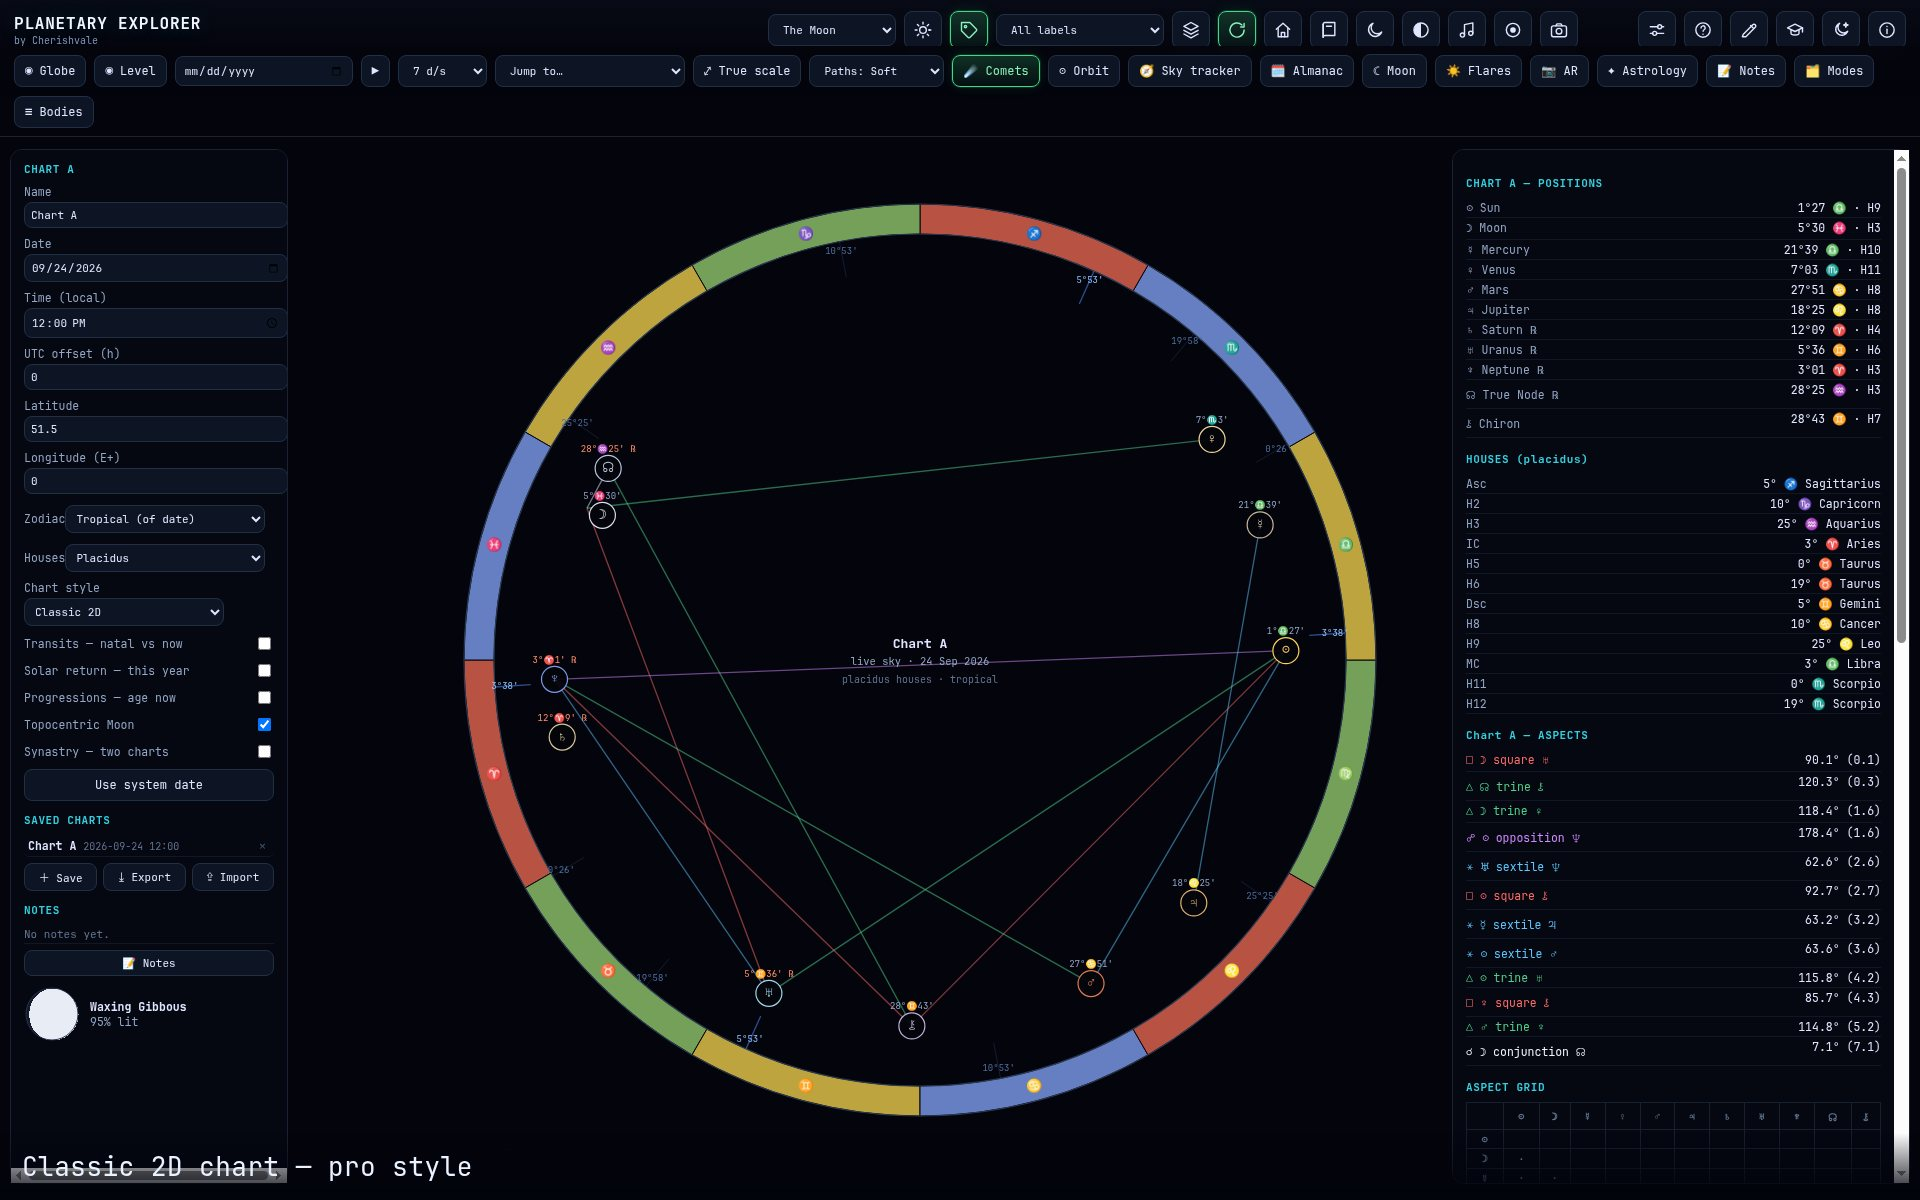
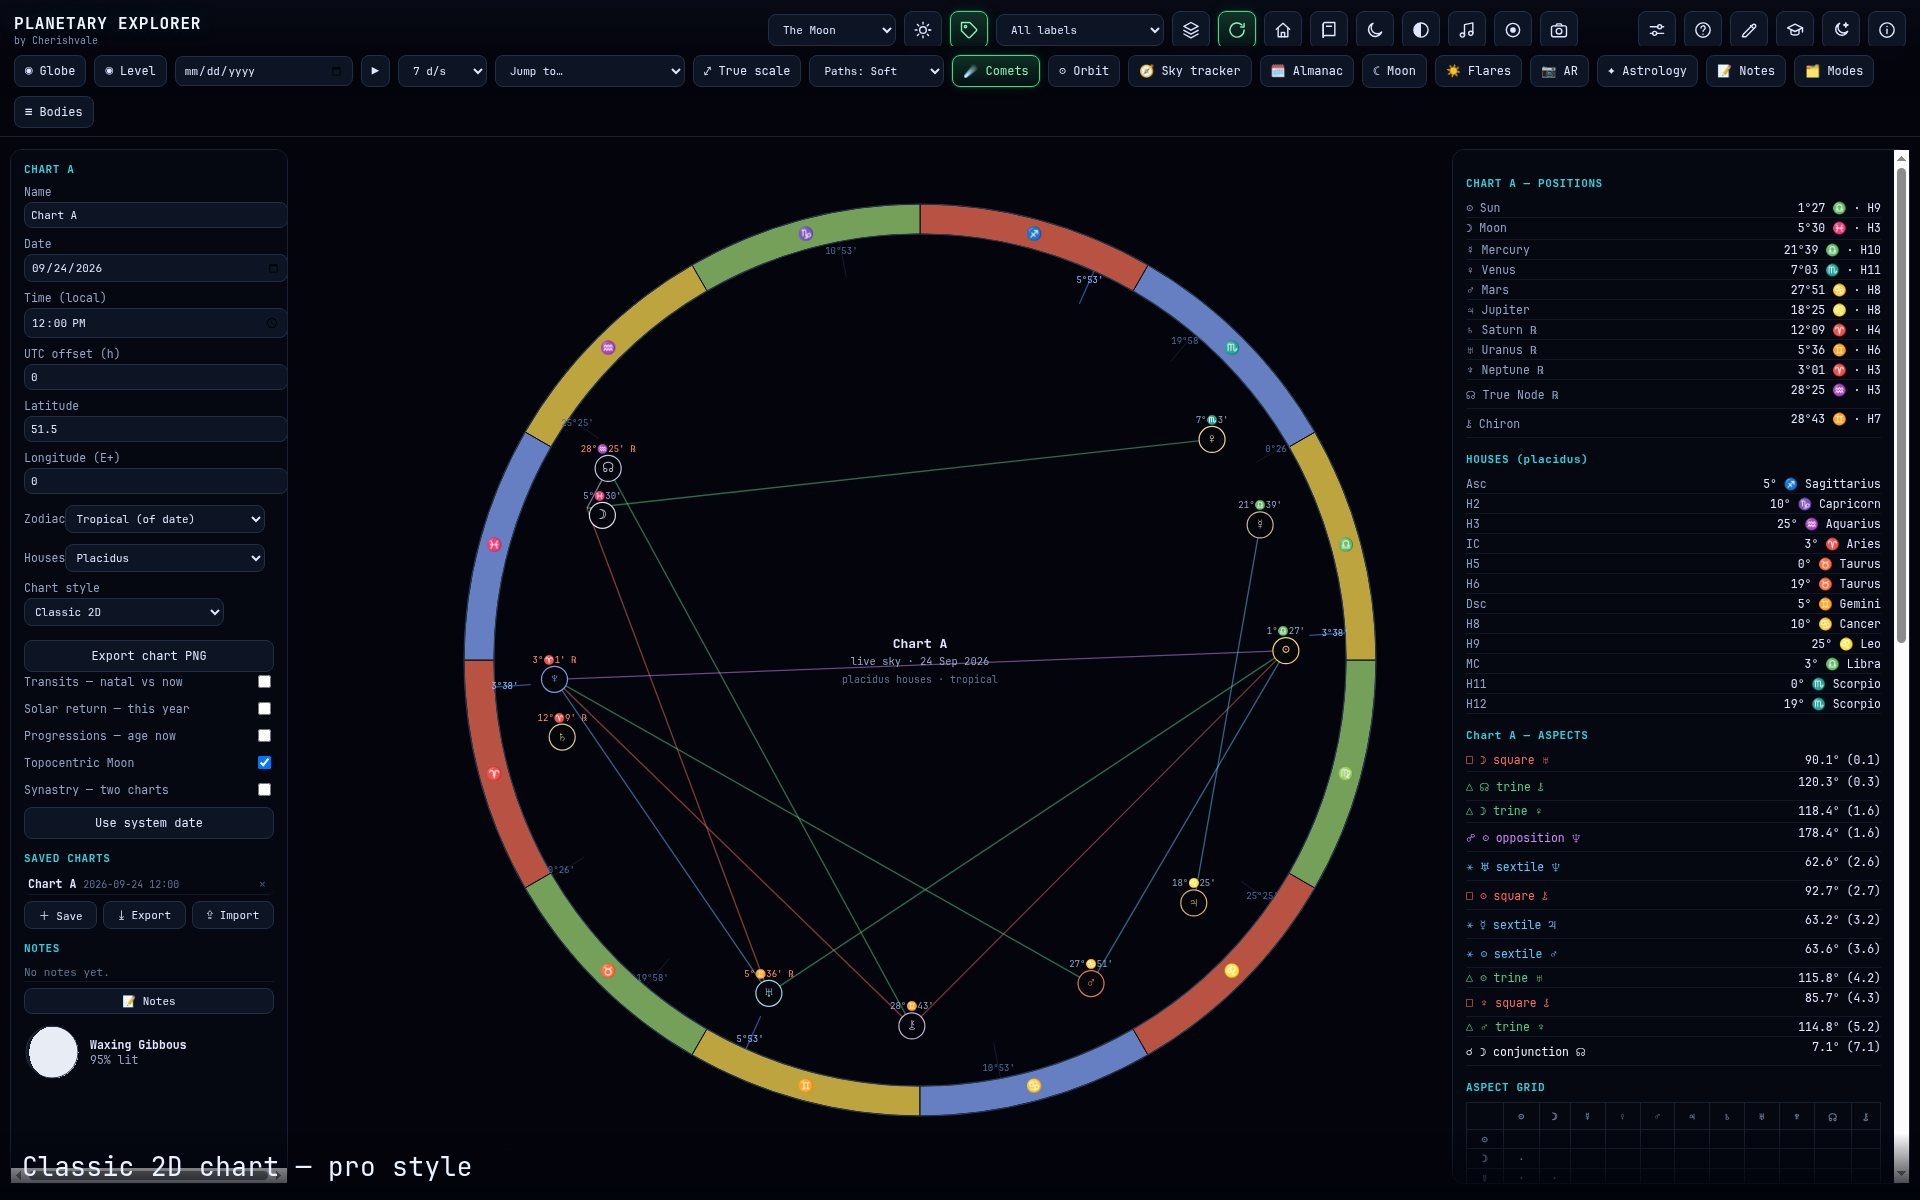
planetary-explorer: export PNG copy + refreshed astrology shots

Changed region(s): [[0.0, 0.5242, 0.1562, 0.8942]]

diff --git a/planetary-explorer.html b/planetary-explorer.html
@@ -149,7 +149,7 @@
   <div class="grid" style="grid-template-columns:repeat(auto-fit,minmax(300px,1fr))">
     <a class="shot" href="assets/screens/astrology.jpg"><img src="assets/screens/astrology.jpg" alt="Astrology birth chart with houses" loading="lazy"><span><b>A full birth-chart engine.</b> Enter a date, time, UTC offset and place to get the Ascendant, Midheaven and twelve house cusps in Placidus, whole sign, equal or Porphyry — plus every planet with sign, degree and retrograde state, a complete aspect list, an aspect grid and a house table. Calculated offline from our own ephemeris. Choose your zodiac: tropical, sidereal with five ayanamsas, Vedic nakshatras, or Chinese year animal and solar terms.</span></a>
     <a class="shot" href="assets/screens/synastry.jpg"><img src="assets/screens/synastry.jpg" alt="Synastry bi-wheel comparing two birth charts" loading="lazy"><span><b>Synastry.</b> Add a second person and both charts share one bi-wheel — inner ring and outer ring — with the cross-aspects drawn between them, a full inter-aspect list and a synastry grid.</span></a>
-    <a class="shot" href="assets/screens/classic-2d.jpg"><img src="assets/screens/classic-2d.jpg" alt="Classic 2D astrology chart with colored sign band and cusp degrees" loading="lazy"><span><b>Classic 2D chart.</b> Prefer the traditional look? One switch redraws the wheel flat and print-like — element-colored sign band, glyphs, every cusp degree, planet degree ticks and a center data block — with synastry, transits, progressions and solar returns carried over.</span></a>
+    <a class="shot" href="assets/screens/classic-2d.jpg"><img src="assets/screens/classic-2d.jpg" alt="Classic 2D astrology chart with colored sign band and cusp degrees" loading="lazy"><span><b>Classic 2D chart.</b> Prefer the traditional look? One switch redraws the wheel flat and print-like — element-colored sign band, glyphs, every cusp degree, planet degree ticks and a center data block — with synastry, transits, progressions and solar returns carried over, plus one-tap 1600×1600 PNG export for publication.</span></a>
     <a class="shot" href="assets/screens/moon-mode.jpg"><img src="assets/screens/moon-mode.jpg" alt="Moon mode with true phase" loading="lazy"><span><b>Moon mode.</b> The Moon with its real surface and true phase for any date: illumination, phase angle, moon age, distance, angular size, the next four phases, rise/transit/set for your location, and a day-by-day phase calendar for the month.</span></a>
   </div>
 </div>
